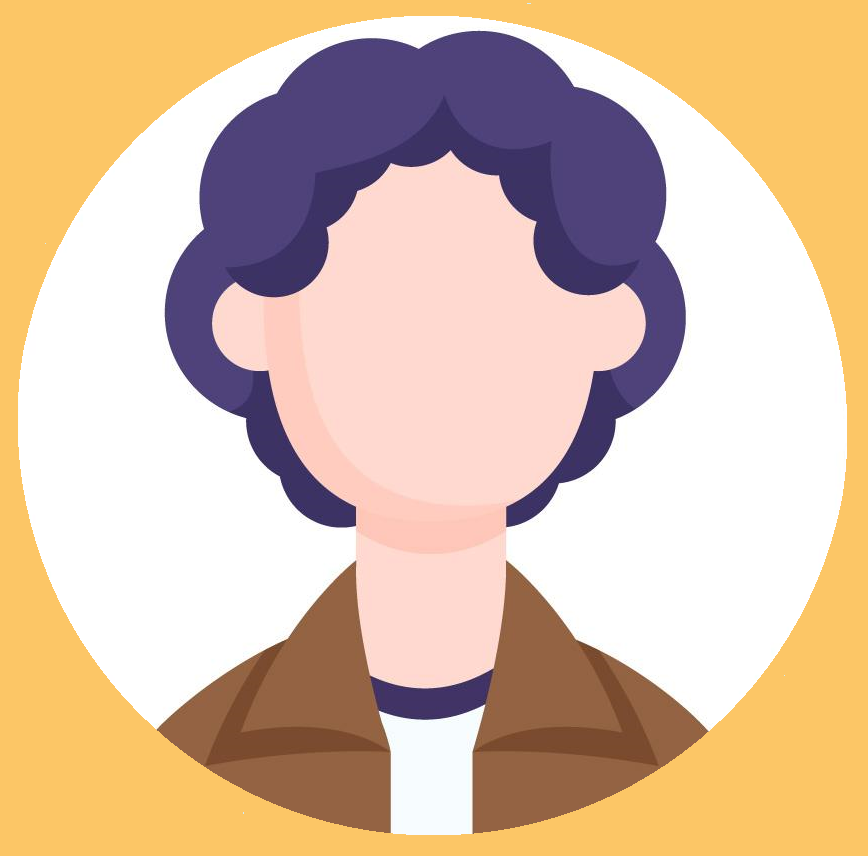
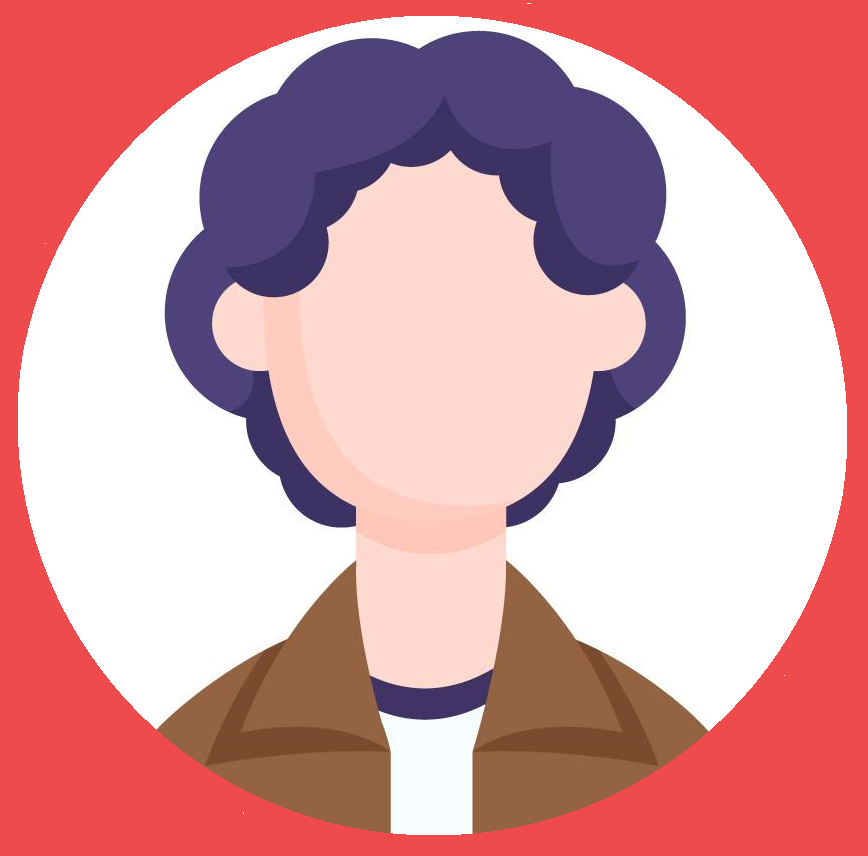
added sha's code n bckgrnd color for acc details n main page

Changed region(s): [[0.0, 0.0, 1.0, 1.0]]

diff --git a/screens/MainPage.js b/screens/MainPage.js
@@ -1,45 +1,170 @@
+// import { NavigationContainer } from '@react-navigation/native';
+// import React, { useState } from 'react';
+// import { StyleSheet, Text, View } from 'react-native';
+// import { Button } from 'react-native-paper';
+
+// const MainPage = ({ navigation }) => {
+// 	return (
+// 		<View style={styles.container}>
+// 			<Text>MAIN PAGE</Text>
+// 			<Button
+// 				mode='contained'
+// 				color='#FCC666'
+// 				style={{ borderRadius: 25, marginTop: 30 }}
+// 				onPress={() => navigation.navigate('add-card')}
+// 			>
+// 				Add Card
+// 			</Button>
+// 			<Button
+// 				mode='contained'
+// 				color='#2E424D'
+// 				style={{ borderRadius: 25, marginTop: 30 }}
+// 				onPress={() => navigation.navigate('acc-details')}
+// 			>
+// 				Back to My Account
+// 			</Button>
+	
+// 		</View>
+// 	);
+// };
+
+// const styles = StyleSheet.create({
+// 	container: {
+// 		flex: 1,
+// 		backgroundColor: '#EF4B4C',
+// 		alignItems: 'center',
+// 		justifyContent: 'center',
+// 	},
+// 	title: {
+// 		fontSize: 24,
+// 		fontWeight: 'bold',
+// 		color: '#051C60',
+// 		margin: 20,
+// 	},
+// });
+
+// export default MainPage;
+
 import { NavigationContainer } from '@react-navigation/native';
 import React, { useState } from 'react';
 import { StyleSheet, Text, View } from 'react-native';
-import { Button } from 'react-native-paper';
+import { Button, Modal, Portal, Provider, TextInput, Switch  } from 'react-native-paper';
 
 const MainPage = ({ navigation }) => {
-	return (
-		<View style={styles.container}>
-			<Text>MAIN PAGE</Text>
-			<Button
-				mode='contained'
-				color='red'
-				style={{ borderRadius: 25, marginTop: 30 }}
-				onPress={() => navigation.navigate('acc-details')}
-			>
-				My Account
-			</Button>
-			<Button
-				mode='contained'
-				color='green'
-				style={{ borderRadius: 25, marginTop: 30 }}
-				onPress={() => navigation.navigate('add-card')}
-			>
-				Add Card
-			</Button>
-		</View>
-	);
-};
 
-const styles = StyleSheet.create({
-	container: {
-		flex: 1,
-		backgroundColor: '#fff',
-		alignItems: 'center',
-		justifyContent: 'center',
-	},
-	title: {
-		fontSize: 24,
-		fontWeight: 'bold',
-		color: '#051C60',
-		margin: 20,
-	},
-});
+
+     // >>>>> ADD-CARD/ EDIT-CARD CODEBLOCK(i) begins <<<<<<<< 
+            const [visible, setVisible] = React.useState(false);
+        
+            //modal popup
+            const showModal = () => setVisible(true);
+            const hideModal = () => setVisible(false);
+            
+            //form field
+            const containerStyle = {backgroundColor: 'white', padding: 20};
+            const [title, setTitle] = React.useState("");
+			const [deadline, setDeadline] = React.useState("");
+            const [description, setDescription] = React.useState("");
+
+     // >>>>> ADD-CARD/ EDIT-CARD CODEBLOCK(i) ends <<<<<<<< 
+    
+
+
+    
+     return (
+        <View style={styles.container}>
+            <Text>MAIN PAGE</Text>
+            {/* <Button
+                mode='contained'
+                color='#FCC666'
+                style={{ borderRadius: 25, marginTop: 30 }}
+                onPress={() => navigation.navigate('add-card')}
+            >
+                Add Card
+            </Button> */}
+            <Button
+                mode='contained'
+                color='#2E424D'
+                style={{ borderRadius: 25, marginTop: 30 }}
+                onPress={() => navigation.navigate('acc-details')}
+            >
+                Back to My Account
+            </Button>
+
+
+
+
+{/* >>>>> ADD-CARD/ EDIT-CARD CODEBLOCK(ii) begins <<<<<<<<  */}
+    <Provider>
+        <Portal>
+            <Modal visible={visible} onDismiss={hideModal} contentContainerStyle={containerStyle}>
+            <Text>Edit Task Details...</Text>   
+            <TextInput
+                label="Title"
+                value={title}
+                onChangeText={text => setTitle(text)}
+            />          
+            <TextInput
+                label="Deadline"
+                value={deadline}
+                onChangeText={text => setDeadline(text)}
+            />
+            <TextInput
+                label="Description"
+                value={description}
+                onChangeText={text => setDescription(text)}
+            />
+			        <Button
+            mode='contained'
+            color='#EF4B4C'
+            style={{ borderRadius: 25, marginTop: 30 }}
+            onPress={() => navigation.navigate('main-page')}
+        >
+            Save Card - go to Boards
+        </Button>
+            </Modal>
+        </Portal>
+        <Button
+            mode='contained'
+            color='#FCC666'
+            style={{ borderRadius: 25, marginTop: 30 }}
+            onPress={showModal}
+        >
+            Add Card
+        </Button>
+
+		
+    </Provider>
+            
+
+{/* >>>>> ADD-CARD/ EDIT-CARD CODEBLOCK(ii) ends <<<<<<<<  */}
+
+        
+        </View>
+        );
+    };
+
+    const styles = StyleSheet.create({
+        container: {
+            flex: 1,
+            backgroundColor: '#EF4B4C',
+            alignItems: 'center',
+            justifyContent: 'center',
+        },
+        title: {
+            fontSize: 24,
+            fontWeight: 'bold',
+            color: '#051C60',
+            margin: 20,
+        },
+    });
 
 export default MainPage;
+
+
+
+
+
+
+
+

diff --git a/screens/AccountDetails.js b/screens/AccountDetails.js
@@ -1,10 +1,19 @@
 import React, { useState } from 'react';
-import { StyleSheet, Text, View } from 'react-native';
-import { Button, TextInput } from 'react-native-paper';
+import { StyleSheet, Image, Text, View } from 'react-native';
+import { Button } from 'react-native-paper';
 
 const AccountDetails = ({ navigation }) => {
 	return (
 		<View style={styles.container}>
+			<Image
+          	  style={{
+			  marginRight: 10,
+			  marginBottom: -11, 
+              height: 120,
+              width: 120 }}
+          	  source={require("../assets/avatar3.png")}
+        	/>
+			<Text></Text>
 			<Text>Account Details Page</Text>
 			<Button
 				mode='contained'
@@ -17,7 +26,7 @@ const AccountDetails = ({ navigation }) => {
 
 			<Button
 				mode='contained'
-				color='#FCC666'
+				color='#2E424D'
 				style={{ borderRadius: 25, marginTop: 30 }}
 				onPress={() => navigation.navigate('main-page')}
 			>
@@ -30,7 +39,7 @@ const AccountDetails = ({ navigation }) => {
 const styles = StyleSheet.create({
 	container: {
 		flex: 1,
-		backgroundColor: '#fff',
+		backgroundColor: '#FCC666',
 		alignItems: 'center',
 		justifyContent: 'center',
 	},

diff --git a/screens/EditAccount.js b/screens/EditAccount.js
@@ -12,6 +12,14 @@ const EditAccount = ({ navigation }) => {
 
 	return (
 		<View style={styles.container}>
+			<Image
+          	  style={{
+			  marginRight: 10,
+			  marginBottom: -11, 
+              height: 120,
+              width: 120 }}
+          	  source={require("../assets/avatar.png")}
+        	/>
 			 <Image
           	  style={{
               height: 90,
@@ -52,7 +60,7 @@ const EditAccount = ({ navigation }) => {
 			<Button
 				mode='contained'
 				color='#2E424D'
-				style={{ borderRadius: 25, marginTop: 30 }}
+				style={{ borderRadius: 25, marginTop: 10 }}
 				onPress={() => navigation.navigate('acc-details')}
 			>
 				Save - go to acc details

diff --git a/screens/LoginPage.js b/screens/LoginPage.js
@@ -8,14 +8,7 @@ const Login = ({ navigation }) => {
 
 	return (
 		<View style={styles.container}>
-			<Image
-          	  style={{
-			  marginRight: 10,
-			  marginBottom: -11, 
-              height: 120,
-              width: 120 }}
-          	  source={require("../assets/avatar.png")}
-        	/>
+	
 			<Image
           	  style={{
               height: 90,

diff --git a/screens/AddCard.js b/screens/AddCard.js
@@ -8,7 +8,7 @@ const NewCard = ({ navigation }) => {
 			<Text>Add Card Page</Text>
 			<Button
 				mode='contained'
-				color='red'
+				color='#EF4B4C'
 				style={{ borderRadius: 25, marginTop: 30 }}
 				onPress={() => navigation.navigate('main-page')}
 			>
